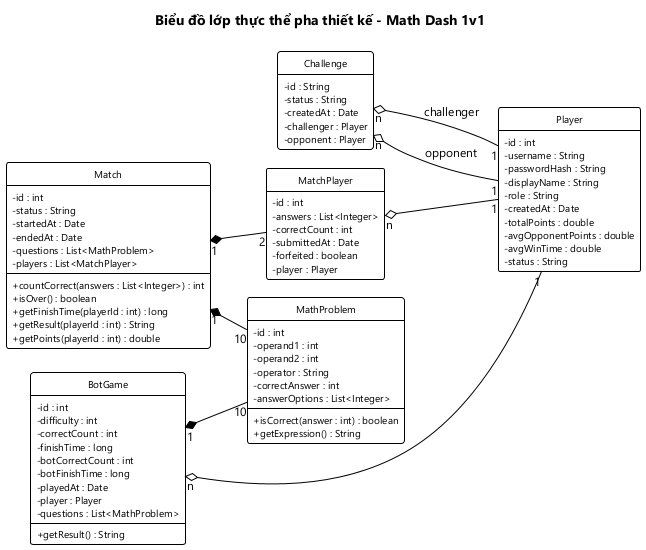
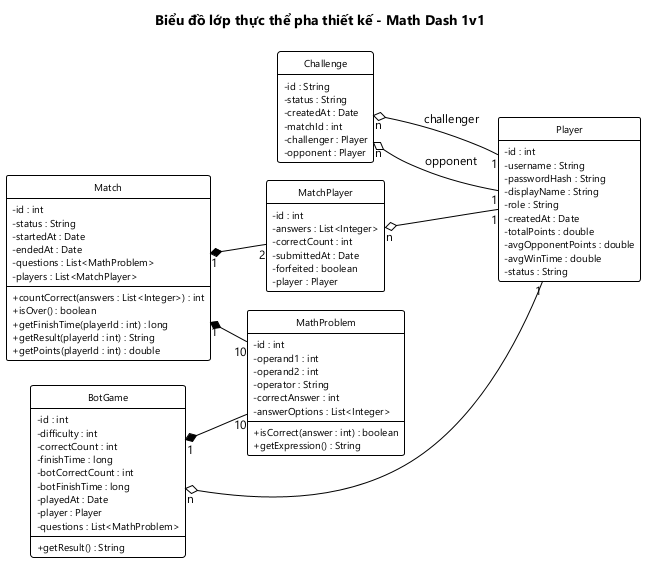
docs(M4-01,M4-03): đồng bộ tài liệu với code M2: Challenge.matchId, readChallengeStatus, goOffline, xử thua khi đối thủ mất kết nối

diff --git a/docs/hung/BaoCao_Hung.md b/docs/hung/BaoCao_Hung.md
@@ -557,9 +557,11 @@ Các thông báo ngắn ("MINH đang bận", "HOANG đã từ chối lời mời
 
 | Loại | Lớp | Mô tả |
 |---|---|---|
-| Boundary | MainActivity | Màn chính, cài đặt PlayerListCallback và ChallengeCallback; giữ người chơi đang đăng nhập (me).<br>- onCreate lấy me bằng SessionDAO.getPlayer, gọi PlayerApiDAO.getById trong Thread để có tổng điểm mới, rồi goOnline, watchOnlinePlayers, watchIncoming.<br>- onPlayersChanged hiện thông tin của mình và đưa những người còn lại vào PlayerAdapter.<br>- onPlayerClick: đối thủ bận thì hiện Toast; rỗi thì sendChallenge, watchChallenge và hiện hộp thoại chờ.<br>- onChallengeChanged: lời mời tới mình đang chờ thì showChallengeDialog; lời mình gửi được đồng ý thì openMatch; bị từ chối thì hiện Toast.<br>- acceptChallenge gọi MatchApiDAO.createMatch trong Thread, xong thì openMatch. Nút Từ chối gọi ChallengeFirebaseDAO.rejectChallenge |
+| Boundary | MainActivity | Màn chính, cài đặt PlayerListCallback và ChallengeCallback; giữ người chơi đang đăng nhập (me).<br>- onCreate lấy me bằng SessionDAO.getPlayer, gọi PlayerApiDAO.getById trong Thread để có tổng điểm mới, rồi goOnline, watchOnlinePlayers, watchIncoming.<br>- onPlayersChanged hiện thông tin của mình và đưa những người còn lại vào PlayerAdapter.<br>- onPlayerClick: đối thủ bận thì hiện Toast; rỗi thì sendChallenge, watchChallenge và hiện hộp thoại chờ có nút Hủy.<br>- onChallengeChanged: lời mời tới mình đang chờ thì showChallengeDialog; lời mình gửi được đồng ý thì openMatch(challenge.getMatchId()); bị từ chối thì hiện Toast.
+- Đăng xuất gọi PresenceFirebaseDAO.goOffline để rời danh sách online.<br>- acceptChallenge gọi MatchApiDAO.createMatch trong Thread, xong thì openMatch. Nút Từ chối gọi ChallengeFirebaseDAO.rejectChallenge |
 | Boundary | PlayerAdapter, PlayerViewHolder | PlayerAdapter kế thừa RecyclerView.Adapter, giữ danh sách Player. setPlayers thay danh sách và vẽ lại. onClick của một dòng gọi MainActivity.onPlayerClick. PlayerViewHolder giữ 3 TextView của một dòng |
-| Boundary | MatchActivity | Màn thi đấu, cài đặt MatchCallback; giữ me, mã trận (matchId), đồng hồ 60 giây (timer).<br>- onCreate gọi MatchFirebaseDAO.watchMatch. Lần đầu nhận trận, onSuccess gọi startMatch: đưa đề vào QuestionAdapter, bật đồng hồ.<br>- onTick vẽ thời gian; onFinish gọi submitAnswers.<br>- submitAnswers lấy bài làm bằng QuestionAdapter.getAnswers, gọi MatchApiDAO.submit trong Thread, rồi khóa danh sách câu.<br>- onSuccess các lần sau: đối thủ đã nộp thì showOpponentStatus; trận đã xong thì loadResult gọi MatchApiDAO.getById rồi showResult.<br>- showResult dùng Match.getResult, getFinishTime, getPoints trên bản trận server trả về.<br>- Nút Chơi tiếp / Dừng gọi sendChoice (MatchApiDAO.continueMatch). onNextMatch mở trận mới bằng openNextMatch; onStopped hiện Toast và về màn chính.<br>- Nút Thoát và onBackPressed hỏi xác nhận rồi gọi leaveMatch (MatchApiDAO.forfeit).<br>Activity không tự chấm bài, không tự phân thắng thua |
+| Boundary | MatchActivity | Màn thi đấu, cài đặt MatchCallback; giữ me, mã trận (matchId), đồng hồ 60 giây (timer).<br>- onCreate gọi MatchFirebaseDAO.watchMatch. Lần đầu nhận trận, onSuccess gọi startMatch: đưa đề vào QuestionAdapter, bật đồng hồ.<br>- onTick vẽ thời gian; onFinish gọi submitAnswers.<br>- submitAnswers lấy bài làm bằng QuestionAdapter.getAnswers, gọi MatchApiDAO.submit trong Thread, rồi khóa danh sách câu.<br>- onSuccess các lần sau: đối thủ đã nộp thì showOpponentStatus; trận đã xong thì loadResult gọi MatchApiDAO.getById rồi showResult.<br>- showResult dùng Match.getResult, getFinishTime, getPoints trên bản trận server trả về.<br>- Nút Chơi tiếp / Dừng gọi sendChoice (MatchApiDAO.continueMatch). onNextMatch mở trận mới bằng openNextMatch; onStopped hiện Toast và về màn chính.<br>- Nút Thoát và onBackPressed hỏi xác nhận rồi gọi leaveMatch (MatchApiDAO.forfeit).
+- Cài đặt PlayerListCallback: khi trận đang đấu mà đối thủ biến khỏi danh sách online (mất kết nối), onPlayersChanged gọi forfeit(opponentId) thay cho đối thủ.<br>Activity không tự chấm bài, không tự phân thắng thua |
 | Boundary | QuestionAdapter, QuestionViewHolder | QuestionAdapter giữ danh sách MathProblem và mảng phương án đã chọn (answers). onBindViewHolder hiện getExpression và 4 phương án; onCheckedChanged lưu phương án vào answers. getAnswers trả bài làm, câu chưa chọn là −1. setLocked khóa mọi RadioButton sau khi nộp. QuestionViewHolder giữ txtExpression, rgOptions, rbOptions |
 | Control | SessionDAO | getPlayer() đọc playerId, username, displayName từ SharedPreferences "session" và đóng gói thành Player |
 | Control | FirebaseDAO ← PresenceFirebaseDAO | FirebaseDAO giữ con (gốc Realtime Database). PresenceFirebaseDAO đọc / ghi node presence:<br>- goOnline ghi tên, tổng điểm, trạng thái free và đăng ký onDisconnect().removeValue().<br>- watchOnlinePlayers / stopWatching thêm / gỡ ValueEventListener.<br>- toPlayer đóng gói một node thành Player |
@@ -575,7 +577,7 @@ Các thông báo ngắn ("MINH đang bận", "HOANG đã từ chối lời mời
 | Loại | Lớp | Mô tả |
 |---|---|---|
 | Boundary | PlayerRestController | getById(id) nhận GET /api/players/{id}: PlayerDAO.findById rồi gán tổng điểm bằng PlayerDAO.getTotalPoints |
-| Boundary | MatchRestController | Trọng tài của mọi trận. Giữ waitingChoices: các trận đang có một người chọn chơi tiếp.<br>- create(challenge) nhận POST /api/matches:<br>  1. readPresence của 2 người; một người không online hoặc đang bận thì trả 409 "Không bắt đầu được trận đấu".<br>  2. startMatch: ProblemDAO.generateProblems(10), tạo Match, MatchDAO.insert, FirebaseAdminDAO.writeMatch, updateStatus busy cho 2 người.<br>  3. updateChallenge accepted kèm id trận.<br>- submit(id, matchPlayer):<br>  1. Ghi thời điểm nhận, findById, chấm bằng Match.countCorrect, updateSubmission, writeSubmitted.<br>  2. Nếu Match.isOver: updateEndedAt, tính lại tổng điểm 2 người, updatePoints, writeFinished.<br>- forfeit(id, playerId): updateForfeit, kết thúc trận như trên, writeStopped, trả 2 người về free.<br>- continueMatch(id, playerId, choice), synchronized:<br>  - Dừng: writeStopped, 2 người về free.<br>  - Chơi tiếp mà đối thủ chưa chọn: lưu vào waitingChoices, writeChoice.<br>  - Đối thủ đã chọn chơi tiếp: startMatch rồi writeNextMatch.<br>- getById(id): findById, gán tổng điểm cho 2 người chơi |
+| Boundary | MatchRestController | Trọng tài của mọi trận. Giữ waitingChoices: các trận đang có một người chọn chơi tiếp.<br>- create(challenge) nhận POST /api/matches:<br>  1. readChallengeStatus: lời mời đã bị hủy thì trả 409. readPresence của 2 người; một người không online hoặc đang bận thì trả 409 "Không bắt đầu được trận đấu".<br>  2. startMatch: ProblemDAO.generateProblems(10), tạo Match, MatchDAO.insert, FirebaseAdminDAO.writeMatch, updateStatus busy cho 2 người.<br>  3. updateChallenge accepted kèm id trận.<br>- submit(id, matchPlayer):<br>  1. Ghi thời điểm nhận, findById, chấm bằng Match.countCorrect, updateSubmission, writeSubmitted.<br>  2. Nếu Match.isOver: endMatch (updateEndedAt, tính lại tổng điểm 2 người, updatePoints), rồi writeFinished.<br>- forfeit(id, playerId): updateForfeit, endMatch, rồi mới writeStopped, writeFinished để máy đối thủ đọc được kết quả đã lưu; trả 2 người về free.<br>- continueMatch(id, playerId, choice), synchronized:<br>  - Dừng: writeStopped, 2 người về free.<br>  - Chơi tiếp mà đối thủ chưa chọn: lưu vào waitingChoices, writeChoice.<br>  - Đối thủ đã chọn chơi tiếp: startMatch rồi writeNextMatch.<br>- getById(id): findById, gán tổng điểm cho 2 người chơi |
 | Control | DAO ← PlayerDAO | DAO giữ conn : Connection (JDBC).<br>- findById đọc tblPlayer.<br>- getTotalPoints lấy các trận đã xong của người chơi rồi cộng Match.getPoints |
 | Control | DAO ← MatchDAO | - insert ghi 1 dòng tblMatch, 10 dòng tblMathProblem, 2 dòng tblMatchPlayer trong một transaction, gán id vừa sinh.<br>- findById đọc trận kèm đề và 2 người chơi.<br>- updateSubmission ghi correctCount, submittedAt.<br>- updateForfeit ghi forfeited.<br>- updateEndedAt ghi endedAt |
 | Control | ProblemDAO | Giữ random : Random. generateProblems gọi generateProblem 10 lần. Mỗi câu chọn toán tử +, −, ×, sinh 2 toán hạng, tính correctAnswer, sinh 3 phương án nhiễu gần đáp án rồi xáo trộn |
@@ -666,38 +668,39 @@ Kịch bản v3 chia 4 đoạn như kịch bản v1.
 8. Hàm onClick() của nút Đồng ý gọi hàm acceptChallenge() của MainActivity.
 9. Hàm acceptChallenge() mở một Thread và gọi hàm createMatch() của MatchApiDAO.
 10. MatchApiDAO gửi yêu cầu POST /api/matches kèm lời mời tới hàm create() của MatchRestController.
-11. Hàm create() gọi hàm readPresence() của FirebaseAdminDAO cho người mời và người được mời.
-12. Hàm readPresence() đọc node presence và gọi lớp Player để đóng gói người chơi kèm trạng thái.
-13. Lớp Player trả đối tượng Player cho hàm readPresence().
-14. Hàm readPresence() trả đối tượng Player cho hàm create(); cả 2 người đang online và rỗi.
-15. Hàm create() gọi hàm startMatch() của chính nó.
-16. Hàm startMatch() gọi hàm generateProblems() của ProblemDAO để sinh đề 10 câu.
-17. Với mỗi câu, hàm generateProblems() sinh phép tính ngẫu nhiên và gọi lớp MathProblem để đóng gói kèm 4 phương án.
-18. Lớp MathProblem trả đối tượng MathProblem cho hàm generateProblems().
-19. Hàm generateProblems() trả danh sách 10 câu hỏi cho hàm startMatch().
-20. Hàm startMatch() gọi lớp Match để tạo trận với đề vừa sinh, thời điểm bắt đầu và 2 người chơi.
-21. Lớp Match trả đối tượng Match cho hàm startMatch().
-22. Hàm startMatch() gọi hàm insert() của MatchDAO.
-23. Hàm insert() lưu trận, 10 câu hỏi và 2 người chơi trong trận vào CSDL trong một transaction, gán id vừa sinh cho trận.
-24. Hàm insert() trả kết quả cho hàm startMatch().
-25. Hàm startMatch() gọi hàm writeMatch() của FirebaseAdminDAO để gửi đề, không kèm đáp án, cho cả 2 máy.
-26. Hàm startMatch() gọi hàm updateStatus() của FirebaseAdminDAO để chuyển 2 người chơi sang trạng thái bận.
-27. Hàm create() gọi hàm updateChallenge() của FirebaseAdminDAO để đánh dấu lời mời đã được đồng ý, kèm mã trận.
-28. Hàm create() trả trận dạng JSON cho MatchApiDAO.
-29. Hàm toMatch() của MatchApiDAO gọi lớp Match để đóng gói dữ liệu JSON.
-30. Lớp Match trả đối tượng Match cho MatchApiDAO.
-31. MatchApiDAO trả đối tượng Match cho hàm acceptChallenge().
-32. Trong hàm runOnUiThread(), hàm acceptChallenge() gọi hàm openMatch() để mở MatchActivity với mã trận.
+11. Hàm create() gọi hàm readChallengeStatus() của FirebaseAdminDAO; lời mời vẫn đang chờ, người mời chưa hủy.
+12. Hàm create() gọi hàm readPresence() của FirebaseAdminDAO cho người mời và người được mời.
+13. Hàm readPresence() đọc node presence và gọi lớp Player để đóng gói người chơi kèm trạng thái.
+14. Lớp Player trả đối tượng Player cho hàm readPresence().
+15. Hàm readPresence() trả đối tượng Player cho hàm create(); cả 2 người đang online và rỗi.
+16. Hàm create() gọi hàm startMatch() của chính nó.
+17. Hàm startMatch() gọi hàm generateProblems() của ProblemDAO để sinh đề 10 câu.
+18. Với mỗi câu, hàm generateProblems() sinh phép tính ngẫu nhiên và gọi lớp MathProblem để đóng gói kèm 4 phương án.
+19. Lớp MathProblem trả đối tượng MathProblem cho hàm generateProblems().
+20. Hàm generateProblems() trả danh sách 10 câu hỏi cho hàm startMatch().
+21. Hàm startMatch() gọi lớp Match để tạo trận với đề vừa sinh, thời điểm bắt đầu và 2 người chơi.
+22. Lớp Match trả đối tượng Match cho hàm startMatch().
+23. Hàm startMatch() gọi hàm insert() của MatchDAO.
+24. Hàm insert() lưu trận, 10 câu hỏi và 2 người chơi trong trận vào CSDL trong một transaction, gán id vừa sinh cho trận.
+25. Hàm insert() trả kết quả cho hàm startMatch().
+26. Hàm startMatch() gọi hàm writeMatch() của FirebaseAdminDAO để gửi đề, không kèm đáp án, cho cả 2 máy.
+27. Hàm startMatch() gọi hàm updateStatus() của FirebaseAdminDAO để chuyển 2 người chơi sang trạng thái bận.
+28. Hàm create() gọi hàm updateChallenge() của FirebaseAdminDAO để đánh dấu lời mời đã được đồng ý, kèm mã trận.
+29. Hàm create() trả trận dạng JSON cho MatchApiDAO.
+30. Hàm toMatch() của MatchApiDAO gọi lớp Match để đóng gói dữ liệu JSON.
+31. Lớp Match trả đối tượng Match cho MatchApiDAO.
+32. MatchApiDAO trả đối tượng Match cho hàm acceptChallenge().
+33. Trong hàm runOnUiThread(), hàm acceptChallenge() gọi hàm openMatch() để mở MatchActivity với mã trận.
 
 ![Hình 8](tuan-tu-thiet-ke-uc03b.png)
 
 *Hình 8: Biểu đồ tuần tự chi tiết chức năng Chơi online, đoạn B: Nhận lời thách đấu.*
 
-- Biểu đồ có 32 thông điệp.
-- **Server sinh đề** (bước 16–19) và lưu đề vào MySQL cùng trận (bước 22–23), vì server cần đáp án để chấm bài sau này.
-- **Đề gửi qua Firebase không kèm đáp án** (bước 25): người chơi không đọc được đáp án trước khi nộp bài.
-- Bước 27 cập nhật lời mời, đây chính là tín hiệu để máy người mời mở MatchActivity ở bước 35 của đoạn A.
-- Hàm create() kiểm tra lại cả 2 người còn online và rỗi (bước 11–14), nên không thể có người ở trong 2 trận cùng lúc.
+- Biểu đồ có 33 thông điệp.
+- **Server sinh đề** (bước 17–20) và lưu đề vào MySQL cùng trận (bước 23–24), vì server cần đáp án để chấm bài sau này.
+- **Đề gửi qua Firebase không kèm đáp án** (bước 26): người chơi không đọc được đáp án trước khi nộp bài.
+- Bước 28 cập nhật lời mời, đây chính là tín hiệu để máy người mời mở MatchActivity ở bước 35 của đoạn A.
+- Hàm create() kiểm tra lời mời chưa bị hủy (bước 11) và cả 2 người còn online, rỗi (bước 12–15), nên không thể có người ở trong 2 trận cùng lúc.
 
 **Đoạn C: Thi đấu**
 
@@ -873,7 +876,7 @@ Màn Bảng xếp hạng là một danh sách cuộn, mỗi dòng là một item
 | Loại | Lớp | Mô tả |
 |---|---|---|
 | Boundary | PlayerRestController | getRanking() nhận GET /api/players/ranking, gọi PlayerDAO.getRanking và trả danh sách Player dạng JSON |
-| Control | DAO ← PlayerDAO | getRanking:<br>1. Đọc mọi tblPlayer có role = player.<br>2. Lấy các trận đã xong bằng MatchDAO.findFinished.<br>3. Cộng Match.getPoints vào tổng điểm từng người; ghi lại các đối thủ đã gặp; với trận Match.getResult là WIN thì cộng Match.getFinishTime.<br>4. Tính 2 giá trị trung bình rồi sắp xếp theo 3 tiêu chí |
+| Control | DAO ← PlayerDAO | getRanking đọc mọi tblPlayer có role = player, lấy các trận đã xong bằng MatchDAO.findFinished, rồi gọi rank. rank là hàm tĩnh thuần, có unit test:<br>1. Đọc người chơi.<br>2. Duyệt các trận.<br>3. Cộng Match.getPoints vào tổng điểm từng người; ghi lại các đối thủ đã gặp; với trận Match.getResult là WIN thì cộng Match.getFinishTime.<br>4. Tính 2 giá trị trung bình rồi sắp xếp theo 3 tiêu chí |
 | Control | DAO ← MatchDAO | findFinished truy vấn tblMatch có endedAt khác rỗng, JOIN tblMatchPlayer, tblPlayer, đóng gói mỗi trận thành 1 Match + 2 MatchPlayer + 2 Player. Không cần đề nên không đọc tblMathProblem |
 | Entity | Player, Match, MatchPlayer | Như ở Chơi online |
 

diff --git a/docs/hung/launch.md b/docs/hung/launch.md
@@ -557,9 +557,11 @@ Package "Client (Android)".
 
 | Loại | Lớp | Mô tả |
 |---|---|---|
-| Boundary | MainActivity | Màn chính, cài đặt PlayerListCallback và ChallengeCallback; giữ người chơi đang đăng nhập (me).<br>- onCreate lấy me bằng SessionDAO.getPlayer, gọi PlayerApiDAO.getById trong Thread để có tổng điểm mới, rồi goOnline, watchOnlinePlayers, watchIncoming.<br>- onPlayersChanged hiện thông tin của mình và đưa những người còn lại vào PlayerAdapter.<br>- onPlayerClick: đối thủ bận thì hiện Toast; rỗi thì sendChallenge, watchChallenge và hiện hộp thoại chờ.<br>- onChallengeChanged: lời mời tới mình đang chờ thì showChallengeDialog; lời mình gửi được đồng ý thì openMatch; bị từ chối thì hiện Toast.<br>- acceptChallenge gọi MatchApiDAO.createMatch trong Thread, xong thì openMatch. Nút Từ chối gọi ChallengeFirebaseDAO.rejectChallenge |
+| Boundary | MainActivity | Màn chính, cài đặt PlayerListCallback và ChallengeCallback; giữ người chơi đang đăng nhập (me).<br>- onCreate lấy me bằng SessionDAO.getPlayer, gọi PlayerApiDAO.getById trong Thread để có tổng điểm mới, rồi goOnline, watchOnlinePlayers, watchIncoming.<br>- onPlayersChanged hiện thông tin của mình và đưa những người còn lại vào PlayerAdapter.<br>- onPlayerClick: đối thủ bận thì hiện Toast; rỗi thì sendChallenge, watchChallenge và hiện hộp thoại chờ có nút Hủy.<br>- onChallengeChanged: lời mời tới mình đang chờ thì showChallengeDialog; lời mình gửi được đồng ý thì openMatch(challenge.getMatchId()); bị từ chối thì hiện Toast.
+- Đăng xuất gọi PresenceFirebaseDAO.goOffline để rời danh sách online.<br>- acceptChallenge gọi MatchApiDAO.createMatch trong Thread, xong thì openMatch. Nút Từ chối gọi ChallengeFirebaseDAO.rejectChallenge |
 | Boundary | PlayerAdapter, PlayerViewHolder | PlayerAdapter kế thừa RecyclerView.Adapter, giữ danh sách Player. setPlayers thay danh sách và vẽ lại. onClick của một dòng gọi MainActivity.onPlayerClick. PlayerViewHolder giữ 3 TextView của một dòng |
-| Boundary | MatchActivity | Màn thi đấu, cài đặt MatchCallback; giữ me, mã trận (matchId), đồng hồ 60 giây (timer).<br>- onCreate gọi MatchFirebaseDAO.watchMatch. Lần đầu nhận trận, onSuccess gọi startMatch: đưa đề vào QuestionAdapter, bật đồng hồ.<br>- onTick vẽ thời gian; onFinish gọi submitAnswers.<br>- submitAnswers lấy bài làm bằng QuestionAdapter.getAnswers, gọi MatchApiDAO.submit trong Thread, rồi khóa danh sách câu.<br>- onSuccess các lần sau: đối thủ đã nộp thì showOpponentStatus; trận đã xong thì loadResult gọi MatchApiDAO.getById rồi showResult.<br>- showResult dùng Match.getResult, getFinishTime, getPoints trên bản trận server trả về.<br>- Nút Chơi tiếp / Dừng gọi sendChoice (MatchApiDAO.continueMatch). onNextMatch mở trận mới bằng openNextMatch; onStopped hiện Toast và về màn chính.<br>- Nút Thoát và onBackPressed hỏi xác nhận rồi gọi leaveMatch (MatchApiDAO.forfeit).<br>Activity không tự chấm bài, không tự phân thắng thua |
+| Boundary | MatchActivity | Màn thi đấu, cài đặt MatchCallback; giữ me, mã trận (matchId), đồng hồ 60 giây (timer).<br>- onCreate gọi MatchFirebaseDAO.watchMatch. Lần đầu nhận trận, onSuccess gọi startMatch: đưa đề vào QuestionAdapter, bật đồng hồ.<br>- onTick vẽ thời gian; onFinish gọi submitAnswers.<br>- submitAnswers lấy bài làm bằng QuestionAdapter.getAnswers, gọi MatchApiDAO.submit trong Thread, rồi khóa danh sách câu.<br>- onSuccess các lần sau: đối thủ đã nộp thì showOpponentStatus; trận đã xong thì loadResult gọi MatchApiDAO.getById rồi showResult.<br>- showResult dùng Match.getResult, getFinishTime, getPoints trên bản trận server trả về.<br>- Nút Chơi tiếp / Dừng gọi sendChoice (MatchApiDAO.continueMatch). onNextMatch mở trận mới bằng openNextMatch; onStopped hiện Toast và về màn chính.<br>- Nút Thoát và onBackPressed hỏi xác nhận rồi gọi leaveMatch (MatchApiDAO.forfeit).
+- Cài đặt PlayerListCallback: khi trận đang đấu mà đối thủ biến khỏi danh sách online (mất kết nối), onPlayersChanged gọi forfeit(opponentId) thay cho đối thủ.<br>Activity không tự chấm bài, không tự phân thắng thua |
 | Boundary | QuestionAdapter, QuestionViewHolder | QuestionAdapter giữ danh sách MathProblem và mảng phương án đã chọn (answers). onBindViewHolder hiện getExpression và 4 phương án; onCheckedChanged lưu phương án vào answers. getAnswers trả bài làm, câu chưa chọn là −1. setLocked khóa mọi RadioButton sau khi nộp. QuestionViewHolder giữ txtExpression, rgOptions, rbOptions |
 | Control | SessionDAO | getPlayer() đọc playerId, username, displayName từ SharedPreferences "session" và đóng gói thành Player |
 | Control | FirebaseDAO ← PresenceFirebaseDAO | FirebaseDAO giữ con (gốc Realtime Database). PresenceFirebaseDAO đọc / ghi node presence:<br>- goOnline ghi tên, tổng điểm, trạng thái free và đăng ký onDisconnect().removeValue().<br>- watchOnlinePlayers / stopWatching thêm / gỡ ValueEventListener.<br>- toPlayer đóng gói một node thành Player |
@@ -575,7 +577,7 @@ Package "Server (Spring Boot)".
 | Loại | Lớp | Mô tả |
 |---|---|---|
 | Boundary | PlayerRestController | getById(id) nhận GET /api/players/{id}: PlayerDAO.findById rồi gán tổng điểm bằng PlayerDAO.getTotalPoints |
-| Boundary | MatchRestController | Trọng tài của mọi trận. Giữ waitingChoices: các trận đang có một người chọn chơi tiếp.<br>- create(challenge) nhận POST /api/matches:<br>  1. readPresence của 2 người; một người không online hoặc đang bận thì trả 409 "Không bắt đầu được trận đấu".<br>  2. startMatch: ProblemDAO.generateProblems(10), tạo Match, MatchDAO.insert, FirebaseAdminDAO.writeMatch, updateStatus busy cho 2 người.<br>  3. updateChallenge accepted kèm id trận.<br>- submit(id, matchPlayer):<br>  1. Ghi thời điểm nhận, findById, chấm bằng Match.countCorrect, updateSubmission, writeSubmitted.<br>  2. Nếu Match.isOver: updateEndedAt, tính lại tổng điểm 2 người, updatePoints, writeFinished.<br>- forfeit(id, playerId): updateForfeit, kết thúc trận như trên, writeStopped, trả 2 người về free.<br>- continueMatch(id, playerId, choice), synchronized:<br>  - Dừng: writeStopped, 2 người về free.<br>  - Chơi tiếp mà đối thủ chưa chọn: lưu vào waitingChoices, writeChoice.<br>  - Đối thủ đã chọn chơi tiếp: startMatch rồi writeNextMatch.<br>- getById(id): findById, gán tổng điểm cho 2 người chơi |
+| Boundary | MatchRestController | Trọng tài của mọi trận. Giữ waitingChoices: các trận đang có một người chọn chơi tiếp.<br>- create(challenge) nhận POST /api/matches:<br>  1. readChallengeStatus: lời mời đã bị hủy thì trả 409. readPresence của 2 người; một người không online hoặc đang bận thì trả 409 "Không bắt đầu được trận đấu".<br>  2. startMatch: ProblemDAO.generateProblems(10), tạo Match, MatchDAO.insert, FirebaseAdminDAO.writeMatch, updateStatus busy cho 2 người.<br>  3. updateChallenge accepted kèm id trận.<br>- submit(id, matchPlayer):<br>  1. Ghi thời điểm nhận, findById, chấm bằng Match.countCorrect, updateSubmission, writeSubmitted.<br>  2. Nếu Match.isOver: endMatch (updateEndedAt, tính lại tổng điểm 2 người, updatePoints), rồi writeFinished.<br>- forfeit(id, playerId): updateForfeit, endMatch, rồi mới writeStopped, writeFinished để máy đối thủ đọc được kết quả đã lưu; trả 2 người về free.<br>- continueMatch(id, playerId, choice), synchronized:<br>  - Dừng: writeStopped, 2 người về free.<br>  - Chơi tiếp mà đối thủ chưa chọn: lưu vào waitingChoices, writeChoice.<br>  - Đối thủ đã chọn chơi tiếp: startMatch rồi writeNextMatch.<br>- getById(id): findById, gán tổng điểm cho 2 người chơi |
 | Control | DAO ← PlayerDAO | DAO giữ conn : Connection (JDBC).<br>- findById đọc tblPlayer.<br>- getTotalPoints lấy các trận đã xong của người chơi rồi cộng Match.getPoints |
 | Control | DAO ← MatchDAO | - insert ghi 1 dòng tblMatch, 10 dòng tblMathProblem, 2 dòng tblMatchPlayer trong một transaction, gán id vừa sinh.<br>- findById đọc trận kèm đề và 2 người chơi.<br>- updateSubmission ghi correctCount, submittedAt.<br>- updateForfeit ghi forfeited.<br>- updateEndedAt ghi endedAt |
 | Control | ProblemDAO | Giữ random : Random. generateProblems gọi generateProblem 10 lần. Mỗi câu chọn toán tử +, −, ×, sinh 2 toán hạng, tính correctAnswer, sinh 3 phương án nhiễu gần đáp án rồi xáo trộn |
@@ -666,38 +668,39 @@ Hình 7: Biểu đồ tuần tự chi tiết chức năng Chơi online, đoạn 
 8. Hàm onClick() của nút Đồng ý gọi hàm acceptChallenge() của MainActivity.
 9. Hàm acceptChallenge() mở một Thread và gọi hàm createMatch() của MatchApiDAO.
 10. MatchApiDAO gửi yêu cầu POST /api/matches kèm lời mời tới hàm create() của MatchRestController.
-11. Hàm create() gọi hàm readPresence() của FirebaseAdminDAO cho người mời và người được mời.
-12. Hàm readPresence() đọc node presence và gọi lớp Player để đóng gói người chơi kèm trạng thái.
-13. Lớp Player trả đối tượng Player cho hàm readPresence().
-14. Hàm readPresence() trả đối tượng Player cho hàm create(); cả 2 người đang online và rỗi.
-15. Hàm create() gọi hàm startMatch() của chính nó.
-16. Hàm startMatch() gọi hàm generateProblems() của ProblemDAO để sinh đề 10 câu.
-17. Với mỗi câu, hàm generateProblems() sinh phép tính ngẫu nhiên và gọi lớp MathProblem để đóng gói kèm 4 phương án.
-18. Lớp MathProblem trả đối tượng MathProblem cho hàm generateProblems().
-19. Hàm generateProblems() trả danh sách 10 câu hỏi cho hàm startMatch().
-20. Hàm startMatch() gọi lớp Match để tạo trận với đề vừa sinh, thời điểm bắt đầu và 2 người chơi.
-21. Lớp Match trả đối tượng Match cho hàm startMatch().
-22. Hàm startMatch() gọi hàm insert() của MatchDAO.
-23. Hàm insert() lưu trận, 10 câu hỏi và 2 người chơi trong trận vào CSDL trong một transaction, gán id vừa sinh cho trận.
-24. Hàm insert() trả kết quả cho hàm startMatch().
-25. Hàm startMatch() gọi hàm writeMatch() của FirebaseAdminDAO để gửi đề, không kèm đáp án, cho cả 2 máy.
-26. Hàm startMatch() gọi hàm updateStatus() của FirebaseAdminDAO để chuyển 2 người chơi sang trạng thái bận.
-27. Hàm create() gọi hàm updateChallenge() của FirebaseAdminDAO để đánh dấu lời mời đã được đồng ý, kèm mã trận.
-28. Hàm create() trả trận dạng JSON cho MatchApiDAO.
-29. Hàm toMatch() của MatchApiDAO gọi lớp Match để đóng gói dữ liệu JSON.
-30. Lớp Match trả đối tượng Match cho MatchApiDAO.
-31. MatchApiDAO trả đối tượng Match cho hàm acceptChallenge().
-32. Trong hàm runOnUiThread(), hàm acceptChallenge() gọi hàm openMatch() để mở MatchActivity với mã trận.
+11. Hàm create() gọi hàm readChallengeStatus() của FirebaseAdminDAO; lời mời vẫn đang chờ, người mời chưa hủy.
+12. Hàm create() gọi hàm readPresence() của FirebaseAdminDAO cho người mời và người được mời.
+13. Hàm readPresence() đọc node presence và gọi lớp Player để đóng gói người chơi kèm trạng thái.
+14. Lớp Player trả đối tượng Player cho hàm readPresence().
+15. Hàm readPresence() trả đối tượng Player cho hàm create(); cả 2 người đang online và rỗi.
+16. Hàm create() gọi hàm startMatch() của chính nó.
+17. Hàm startMatch() gọi hàm generateProblems() của ProblemDAO để sinh đề 10 câu.
+18. Với mỗi câu, hàm generateProblems() sinh phép tính ngẫu nhiên và gọi lớp MathProblem để đóng gói kèm 4 phương án.
+19. Lớp MathProblem trả đối tượng MathProblem cho hàm generateProblems().
+20. Hàm generateProblems() trả danh sách 10 câu hỏi cho hàm startMatch().
+21. Hàm startMatch() gọi lớp Match để tạo trận với đề vừa sinh, thời điểm bắt đầu và 2 người chơi.
+22. Lớp Match trả đối tượng Match cho hàm startMatch().
+23. Hàm startMatch() gọi hàm insert() của MatchDAO.
+24. Hàm insert() lưu trận, 10 câu hỏi và 2 người chơi trong trận vào CSDL trong một transaction, gán id vừa sinh cho trận.
+25. Hàm insert() trả kết quả cho hàm startMatch().
+26. Hàm startMatch() gọi hàm writeMatch() của FirebaseAdminDAO để gửi đề, không kèm đáp án, cho cả 2 máy.
+27. Hàm startMatch() gọi hàm updateStatus() của FirebaseAdminDAO để chuyển 2 người chơi sang trạng thái bận.
+28. Hàm create() gọi hàm updateChallenge() của FirebaseAdminDAO để đánh dấu lời mời đã được đồng ý, kèm mã trận.
+29. Hàm create() trả trận dạng JSON cho MatchApiDAO.
+30. Hàm toMatch() của MatchApiDAO gọi lớp Match để đóng gói dữ liệu JSON.
+31. Lớp Match trả đối tượng Match cho MatchApiDAO.
+32. MatchApiDAO trả đối tượng Match cho hàm acceptChallenge().
+33. Trong hàm runOnUiThread(), hàm acceptChallenge() gọi hàm openMatch() để mở MatchActivity với mã trận.
 
 @tuan-tu-thiet-ke-uc03b.png
 
 Hình 8: Biểu đồ tuần tự chi tiết chức năng Chơi online, đoạn B: Nhận lời thách đấu.
 
-- Biểu đồ có 32 thông điệp.
-- Server sinh đề (bước 16–19) và lưu đề vào MySQL cùng trận (bước 22–23), vì server cần đáp án để chấm bài sau này.
-- Đề gửi qua Firebase không kèm đáp án (bước 25): người chơi không đọc được đáp án trước khi nộp bài.
-- Bước 27 cập nhật lời mời, đây chính là tín hiệu để máy người mời mở MatchActivity ở bước 35 của đoạn A.
-- Hàm create() kiểm tra lại cả 2 người còn online và rỗi (bước 11–14), nên không thể có người ở trong 2 trận cùng lúc.
+- Biểu đồ có 33 thông điệp.
+- Server sinh đề (bước 17–20) và lưu đề vào MySQL cùng trận (bước 23–24), vì server cần đáp án để chấm bài sau này.
+- Đề gửi qua Firebase không kèm đáp án (bước 26): người chơi không đọc được đáp án trước khi nộp bài.
+- Bước 28 cập nhật lời mời, đây chính là tín hiệu để máy người mời mở MatchActivity ở bước 35 của đoạn A.
+- Hàm create() kiểm tra lời mời chưa bị hủy (bước 11) và cả 2 người còn online, rỗi (bước 12–15), nên không thể có người ở trong 2 trận cùng lúc.
 
 Đoạn C: Thi đấu
 
@@ -873,7 +876,7 @@ Package "Server (Spring Boot)".
 | Loại | Lớp | Mô tả |
 |---|---|---|
 | Boundary | PlayerRestController | getRanking() nhận GET /api/players/ranking, gọi PlayerDAO.getRanking và trả danh sách Player dạng JSON |
-| Control | DAO ← PlayerDAO | getRanking:<br>1. Đọc mọi tblPlayer có role = player.<br>2. Lấy các trận đã xong bằng MatchDAO.findFinished.<br>3. Cộng Match.getPoints vào tổng điểm từng người; ghi lại các đối thủ đã gặp; với trận Match.getResult là WIN thì cộng Match.getFinishTime.<br>4. Tính 2 giá trị trung bình rồi sắp xếp theo 3 tiêu chí |
+| Control | DAO ← PlayerDAO | getRanking đọc mọi tblPlayer có role = player, lấy các trận đã xong bằng MatchDAO.findFinished, rồi gọi rank. rank là hàm tĩnh thuần, có unit test:<br>1. Đọc người chơi.<br>2. Duyệt các trận.<br>3. Cộng Match.getPoints vào tổng điểm từng người; ghi lại các đối thủ đã gặp; với trận Match.getResult là WIN thì cộng Match.getFinishTime.<br>4. Tính 2 giá trị trung bình rồi sắp xếp theo 3 tiêu chí |
 | Control | DAO ← MatchDAO | findFinished truy vấn tblMatch có endedAt khác rỗng, JOIN tblMatchPlayer, tblPlayer, đóng gói mỗi trận thành 1 Match + 2 MatchPlayer + 2 Player. Không cần đề nên không đọc tblMathProblem |
 | Entity | Player, Match, MatchPlayer | Như ở Chơi online |
 

diff --git a/docs/hung/4-lop-thiet-ke.md b/docs/hung/4-lop-thiet-ke.md
@@ -110,9 +110,11 @@ Các thông báo ngắn ("MINH đang bận", "HOANG đã từ chối lời mời
 
 | Loại | Lớp | Mô tả |
 |---|---|---|
-| Boundary | MainActivity | Màn chính, cài đặt PlayerListCallback và ChallengeCallback; giữ người chơi đang đăng nhập (me).<br>- onCreate lấy me bằng SessionDAO.getPlayer, gọi PlayerApiDAO.getById trong Thread để có tổng điểm mới, rồi goOnline, watchOnlinePlayers, watchIncoming.<br>- onPlayersChanged hiện thông tin của mình và đưa những người còn lại vào PlayerAdapter.<br>- onPlayerClick: đối thủ bận thì hiện Toast; rỗi thì sendChallenge, watchChallenge và hiện hộp thoại chờ.<br>- onChallengeChanged: lời mời tới mình đang chờ thì showChallengeDialog; lời mình gửi được đồng ý thì openMatch; bị từ chối thì hiện Toast.<br>- acceptChallenge gọi MatchApiDAO.createMatch trong Thread, xong thì openMatch. Nút Từ chối gọi ChallengeFirebaseDAO.rejectChallenge |
+| Boundary | MainActivity | Màn chính, cài đặt PlayerListCallback và ChallengeCallback; giữ người chơi đang đăng nhập (me).<br>- onCreate lấy me bằng SessionDAO.getPlayer, gọi PlayerApiDAO.getById trong Thread để có tổng điểm mới, rồi goOnline, watchOnlinePlayers, watchIncoming.<br>- onPlayersChanged hiện thông tin của mình và đưa những người còn lại vào PlayerAdapter.<br>- onPlayerClick: đối thủ bận thì hiện Toast; rỗi thì sendChallenge, watchChallenge và hiện hộp thoại chờ có nút Hủy.<br>- onChallengeChanged: lời mời tới mình đang chờ thì showChallengeDialog; lời mình gửi được đồng ý thì openMatch(challenge.getMatchId()); bị từ chối thì hiện Toast.
+- Đăng xuất gọi PresenceFirebaseDAO.goOffline để rời danh sách online.<br>- acceptChallenge gọi MatchApiDAO.createMatch trong Thread, xong thì openMatch. Nút Từ chối gọi ChallengeFirebaseDAO.rejectChallenge |
 | Boundary | PlayerAdapter, PlayerViewHolder | PlayerAdapter kế thừa RecyclerView.Adapter, giữ danh sách Player. setPlayers thay danh sách và vẽ lại. onClick của một dòng gọi MainActivity.onPlayerClick. PlayerViewHolder giữ 3 TextView của một dòng |
-| Boundary | MatchActivity | Màn thi đấu, cài đặt MatchCallback; giữ me, mã trận (matchId), đồng hồ 60 giây (timer).<br>- onCreate gọi MatchFirebaseDAO.watchMatch. Lần đầu nhận trận, onSuccess gọi startMatch: đưa đề vào QuestionAdapter, bật đồng hồ.<br>- onTick vẽ thời gian; onFinish gọi submitAnswers.<br>- submitAnswers lấy bài làm bằng QuestionAdapter.getAnswers, gọi MatchApiDAO.submit trong Thread, rồi khóa danh sách câu.<br>- onSuccess các lần sau: đối thủ đã nộp thì showOpponentStatus; trận đã xong thì loadResult gọi MatchApiDAO.getById rồi showResult.<br>- showResult dùng Match.getResult, getFinishTime, getPoints trên bản trận server trả về.<br>- Nút Chơi tiếp / Dừng gọi sendChoice (MatchApiDAO.continueMatch). onNextMatch mở trận mới bằng openNextMatch; onStopped hiện Toast và về màn chính.<br>- Nút Thoát và onBackPressed hỏi xác nhận rồi gọi leaveMatch (MatchApiDAO.forfeit).<br>Activity không tự chấm bài, không tự phân thắng thua |
+| Boundary | MatchActivity | Màn thi đấu, cài đặt MatchCallback; giữ me, mã trận (matchId), đồng hồ 60 giây (timer).<br>- onCreate gọi MatchFirebaseDAO.watchMatch. Lần đầu nhận trận, onSuccess gọi startMatch: đưa đề vào QuestionAdapter, bật đồng hồ.<br>- onTick vẽ thời gian; onFinish gọi submitAnswers.<br>- submitAnswers lấy bài làm bằng QuestionAdapter.getAnswers, gọi MatchApiDAO.submit trong Thread, rồi khóa danh sách câu.<br>- onSuccess các lần sau: đối thủ đã nộp thì showOpponentStatus; trận đã xong thì loadResult gọi MatchApiDAO.getById rồi showResult.<br>- showResult dùng Match.getResult, getFinishTime, getPoints trên bản trận server trả về.<br>- Nút Chơi tiếp / Dừng gọi sendChoice (MatchApiDAO.continueMatch). onNextMatch mở trận mới bằng openNextMatch; onStopped hiện Toast và về màn chính.<br>- Nút Thoát và onBackPressed hỏi xác nhận rồi gọi leaveMatch (MatchApiDAO.forfeit).
+- Cài đặt PlayerListCallback: khi trận đang đấu mà đối thủ biến khỏi danh sách online (mất kết nối), onPlayersChanged gọi forfeit(opponentId) thay cho đối thủ.<br>Activity không tự chấm bài, không tự phân thắng thua |
 | Boundary | QuestionAdapter, QuestionViewHolder | QuestionAdapter giữ danh sách MathProblem và mảng phương án đã chọn (answers). onBindViewHolder hiện getExpression và 4 phương án; onCheckedChanged lưu phương án vào answers. getAnswers trả bài làm, câu chưa chọn là −1. setLocked khóa mọi RadioButton sau khi nộp. QuestionViewHolder giữ txtExpression, rgOptions, rbOptions |
 | Control | SessionDAO | getPlayer() đọc playerId, username, displayName từ SharedPreferences "session" và đóng gói thành Player |
 | Control | FirebaseDAO ← PresenceFirebaseDAO | FirebaseDAO giữ con (gốc Realtime Database). PresenceFirebaseDAO đọc / ghi node presence:<br>- goOnline ghi tên, tổng điểm, trạng thái free và đăng ký onDisconnect().removeValue().<br>- watchOnlinePlayers / stopWatching thêm / gỡ ValueEventListener.<br>- toPlayer đóng gói một node thành Player |
@@ -128,7 +130,7 @@ Các thông báo ngắn ("MINH đang bận", "HOANG đã từ chối lời mời
 | Loại | Lớp | Mô tả |
 |---|---|---|
 | Boundary | PlayerRestController | getById(id) nhận GET /api/players/{id}: PlayerDAO.findById rồi gán tổng điểm bằng PlayerDAO.getTotalPoints |
-| Boundary | MatchRestController | Trọng tài của mọi trận. Giữ waitingChoices: các trận đang có một người chọn chơi tiếp.<br>- create(challenge) nhận POST /api/matches:<br>  1. readPresence của 2 người; một người không online hoặc đang bận thì trả 409 "Không bắt đầu được trận đấu".<br>  2. startMatch: ProblemDAO.generateProblems(10), tạo Match, MatchDAO.insert, FirebaseAdminDAO.writeMatch, updateStatus busy cho 2 người.<br>  3. updateChallenge accepted kèm id trận.<br>- submit(id, matchPlayer):<br>  1. Ghi thời điểm nhận, findById, chấm bằng Match.countCorrect, updateSubmission, writeSubmitted.<br>  2. Nếu Match.isOver: updateEndedAt, tính lại tổng điểm 2 người, updatePoints, writeFinished.<br>- forfeit(id, playerId): updateForfeit, kết thúc trận như trên, writeStopped, trả 2 người về free.<br>- continueMatch(id, playerId, choice), synchronized:<br>  - Dừng: writeStopped, 2 người về free.<br>  - Chơi tiếp mà đối thủ chưa chọn: lưu vào waitingChoices, writeChoice.<br>  - Đối thủ đã chọn chơi tiếp: startMatch rồi writeNextMatch.<br>- getById(id): findById, gán tổng điểm cho 2 người chơi |
+| Boundary | MatchRestController | Trọng tài của mọi trận. Giữ waitingChoices: các trận đang có một người chọn chơi tiếp.<br>- create(challenge) nhận POST /api/matches:<br>  1. readChallengeStatus: lời mời đã bị hủy thì trả 409. readPresence của 2 người; một người không online hoặc đang bận thì trả 409 "Không bắt đầu được trận đấu".<br>  2. startMatch: ProblemDAO.generateProblems(10), tạo Match, MatchDAO.insert, FirebaseAdminDAO.writeMatch, updateStatus busy cho 2 người.<br>  3. updateChallenge accepted kèm id trận.<br>- submit(id, matchPlayer):<br>  1. Ghi thời điểm nhận, findById, chấm bằng Match.countCorrect, updateSubmission, writeSubmitted.<br>  2. Nếu Match.isOver: endMatch (updateEndedAt, tính lại tổng điểm 2 người, updatePoints), rồi writeFinished.<br>- forfeit(id, playerId): updateForfeit, endMatch, rồi mới writeStopped, writeFinished để máy đối thủ đọc được kết quả đã lưu; trả 2 người về free.<br>- continueMatch(id, playerId, choice), synchronized:<br>  - Dừng: writeStopped, 2 người về free.<br>  - Chơi tiếp mà đối thủ chưa chọn: lưu vào waitingChoices, writeChoice.<br>  - Đối thủ đã chọn chơi tiếp: startMatch rồi writeNextMatch.<br>- getById(id): findById, gán tổng điểm cho 2 người chơi |
 | Control | DAO ← PlayerDAO | DAO giữ conn : Connection (JDBC).<br>- findById đọc tblPlayer.<br>- getTotalPoints lấy các trận đã xong của người chơi rồi cộng Match.getPoints |
 | Control | DAO ← MatchDAO | - insert ghi 1 dòng tblMatch, 10 dòng tblMathProblem, 2 dòng tblMatchPlayer trong một transaction, gán id vừa sinh.<br>- findById đọc trận kèm đề và 2 người chơi.<br>- updateSubmission ghi correctCount, submittedAt.<br>- updateForfeit ghi forfeited.<br>- updateEndedAt ghi endedAt |
 | Control | ProblemDAO | Giữ random : Random. generateProblems gọi generateProblem 10 lần. Mỗi câu chọn toán tử +, −, ×, sinh 2 toán hạng, tính correctAnswer, sinh 3 phương án nhiễu gần đáp án rồi xáo trộn |
@@ -199,7 +201,7 @@ Màn Bảng xếp hạng là một danh sách cuộn, mỗi dòng là một item
 | Loại | Lớp | Mô tả |
 |---|---|---|
 | Boundary | PlayerRestController | getRanking() nhận GET /api/players/ranking, gọi PlayerDAO.getRanking và trả danh sách Player dạng JSON |
-| Control | DAO ← PlayerDAO | getRanking:<br>1. Đọc mọi tblPlayer có role = player.<br>2. Lấy các trận đã xong bằng MatchDAO.findFinished.<br>3. Cộng Match.getPoints vào tổng điểm từng người; ghi lại các đối thủ đã gặp; với trận Match.getResult là WIN thì cộng Match.getFinishTime.<br>4. Tính 2 giá trị trung bình rồi sắp xếp theo 3 tiêu chí |
+| Control | DAO ← PlayerDAO | getRanking đọc mọi tblPlayer có role = player, lấy các trận đã xong bằng MatchDAO.findFinished, rồi gọi rank. rank là hàm tĩnh thuần, có unit test:<br>1. Đọc người chơi.<br>2. Duyệt các trận.<br>3. Cộng Match.getPoints vào tổng điểm từng người; ghi lại các đối thủ đã gặp; với trận Match.getResult là WIN thì cộng Match.getFinishTime.<br>4. Tính 2 giá trị trung bình rồi sắp xếp theo 3 tiêu chí |
 | Control | DAO ← MatchDAO | findFinished truy vấn tblMatch có endedAt khác rỗng, JOIN tblMatchPlayer, tblPlayer, đóng gói mỗi trận thành 1 Match + 2 MatchPlayer + 2 Player. Không cần đề nên không đọc tblMathProblem |
 | Entity | Player, Match, MatchPlayer | Như ở Chơi online |
 

diff --git a/docs/hung/5-kich-ban-v3.md b/docs/hung/5-kich-ban-v3.md
@@ -70,38 +70,39 @@
 8. Hàm onClick() của nút Đồng ý gọi hàm acceptChallenge() của MainActivity.
 9. Hàm acceptChallenge() mở một Thread và gọi hàm createMatch() của MatchApiDAO.
 10. MatchApiDAO gửi yêu cầu POST /api/matches kèm lời mời tới hàm create() của MatchRestController.
-11. Hàm create() gọi hàm readPresence() của FirebaseAdminDAO cho người mời và người được mời.
-12. Hàm readPresence() đọc node presence và gọi lớp Player để đóng gói người chơi kèm trạng thái.
-13. Lớp Player trả đối tượng Player cho hàm readPresence().
-14. Hàm readPresence() trả đối tượng Player cho hàm create(); cả 2 người đang online và rỗi.
-15. Hàm create() gọi hàm startMatch() của chính nó.
-16. Hàm startMatch() gọi hàm generateProblems() của ProblemDAO để sinh đề 10 câu.
-17. Với mỗi câu, hàm generateProblems() sinh phép tính ngẫu nhiên và gọi lớp MathProblem để đóng gói kèm 4 phương án.
-18. Lớp MathProblem trả đối tượng MathProblem cho hàm generateProblems().
-19. Hàm generateProblems() trả danh sách 10 câu hỏi cho hàm startMatch().
-20. Hàm startMatch() gọi lớp Match để tạo trận với đề vừa sinh, thời điểm bắt đầu và 2 người chơi.
-21. Lớp Match trả đối tượng Match cho hàm startMatch().
-22. Hàm startMatch() gọi hàm insert() của MatchDAO.
-23. Hàm insert() lưu trận, 10 câu hỏi và 2 người chơi trong trận vào CSDL trong một transaction, gán id vừa sinh cho trận.
-24. Hàm insert() trả kết quả cho hàm startMatch().
-25. Hàm startMatch() gọi hàm writeMatch() của FirebaseAdminDAO để gửi đề, không kèm đáp án, cho cả 2 máy.
-26. Hàm startMatch() gọi hàm updateStatus() của FirebaseAdminDAO để chuyển 2 người chơi sang trạng thái bận.
-27. Hàm create() gọi hàm updateChallenge() của FirebaseAdminDAO để đánh dấu lời mời đã được đồng ý, kèm mã trận.
-28. Hàm create() trả trận dạng JSON cho MatchApiDAO.
-29. Hàm toMatch() của MatchApiDAO gọi lớp Match để đóng gói dữ liệu JSON.
-30. Lớp Match trả đối tượng Match cho MatchApiDAO.
-31. MatchApiDAO trả đối tượng Match cho hàm acceptChallenge().
-32. Trong hàm runOnUiThread(), hàm acceptChallenge() gọi hàm openMatch() để mở MatchActivity với mã trận.
+11. Hàm create() gọi hàm readChallengeStatus() của FirebaseAdminDAO; lời mời vẫn đang chờ, người mời chưa hủy.
+12. Hàm create() gọi hàm readPresence() của FirebaseAdminDAO cho người mời và người được mời.
+13. Hàm readPresence() đọc node presence và gọi lớp Player để đóng gói người chơi kèm trạng thái.
+14. Lớp Player trả đối tượng Player cho hàm readPresence().
+15. Hàm readPresence() trả đối tượng Player cho hàm create(); cả 2 người đang online và rỗi.
+16. Hàm create() gọi hàm startMatch() của chính nó.
+17. Hàm startMatch() gọi hàm generateProblems() của ProblemDAO để sinh đề 10 câu.
+18. Với mỗi câu, hàm generateProblems() sinh phép tính ngẫu nhiên và gọi lớp MathProblem để đóng gói kèm 4 phương án.
+19. Lớp MathProblem trả đối tượng MathProblem cho hàm generateProblems().
+20. Hàm generateProblems() trả danh sách 10 câu hỏi cho hàm startMatch().
+21. Hàm startMatch() gọi lớp Match để tạo trận với đề vừa sinh, thời điểm bắt đầu và 2 người chơi.
+22. Lớp Match trả đối tượng Match cho hàm startMatch().
+23. Hàm startMatch() gọi hàm insert() của MatchDAO.
+24. Hàm insert() lưu trận, 10 câu hỏi và 2 người chơi trong trận vào CSDL trong một transaction, gán id vừa sinh cho trận.
+25. Hàm insert() trả kết quả cho hàm startMatch().
+26. Hàm startMatch() gọi hàm writeMatch() của FirebaseAdminDAO để gửi đề, không kèm đáp án, cho cả 2 máy.
+27. Hàm startMatch() gọi hàm updateStatus() của FirebaseAdminDAO để chuyển 2 người chơi sang trạng thái bận.
+28. Hàm create() gọi hàm updateChallenge() của FirebaseAdminDAO để đánh dấu lời mời đã được đồng ý, kèm mã trận.
+29. Hàm create() trả trận dạng JSON cho MatchApiDAO.
+30. Hàm toMatch() của MatchApiDAO gọi lớp Match để đóng gói dữ liệu JSON.
+31. Lớp Match trả đối tượng Match cho MatchApiDAO.
+32. MatchApiDAO trả đối tượng Match cho hàm acceptChallenge().
+33. Trong hàm runOnUiThread(), hàm acceptChallenge() gọi hàm openMatch() để mở MatchActivity với mã trận.
 
 ![Hình 18: Tuần tự thiết kế Chơi online – Nhận lời thách đấu](tuan-tu-thiet-ke-uc03b.png)
 
 *Hình 18: Biểu đồ tuần tự chi tiết chức năng Chơi online, đoạn B: Nhận lời thách đấu.*
 
-- Biểu đồ có 32 thông điệp.
-- **Server sinh đề** (bước 16–19) và lưu đề vào MySQL cùng trận (bước 22–23), vì server cần đáp án để chấm bài sau này.
-- **Đề gửi qua Firebase không kèm đáp án** (bước 25): người chơi không đọc được đáp án trước khi nộp bài.
-- Bước 27 cập nhật lời mời, đây chính là tín hiệu để máy người mời mở MatchActivity ở bước 35 của đoạn A.
-- Hàm create() kiểm tra lại cả 2 người còn online và rỗi (bước 11–14), nên không thể có người ở trong 2 trận cùng lúc.
+- Biểu đồ có 33 thông điệp.
+- **Server sinh đề** (bước 17–20) và lưu đề vào MySQL cùng trận (bước 23–24), vì server cần đáp án để chấm bài sau này.
+- **Đề gửi qua Firebase không kèm đáp án** (bước 26): người chơi không đọc được đáp án trước khi nộp bài.
+- Bước 28 cập nhật lời mời, đây chính là tín hiệu để máy người mời mở MatchActivity ở bước 35 của đoạn A.
+- Hàm create() kiểm tra lời mời chưa bị hủy (bước 11) và cả 2 người còn online, rỗi (bước 12–15), nên không thể có người ở trong 2 trận cùng lúc.
 
 ### 1.3. Đoạn C: Thi đấu
 

diff --git a/docs/chung/02-lop-thuc-the.md b/docs/chung/02-lop-thuc-the.md
@@ -141,6 +141,8 @@ Kiểu dữ liệu được chọn như sau:
 - Tổng điểm → double, vì có điểm hòa 0,5.
 - Độ khó dùng int: 1 = Dễ, 2 = Trung bình, 3 = Khó.
 
+Bổ sung 1 thuộc tính phục vụ thiết kế cho Challenge: matchId : int, mã trận server tạo khi lời mời được đồng ý. Máy người mời đọc nó để mở đúng trận.
+
 Đổi tên 1 thuộc tính so với pha phân tích: password của Player thành **passwordHash**, vì hệ thống chỉ lưu mật khẩu đã băm (BCrypt), không lưu mật khẩu gốc.
 
 Thuộc tính kiểu boolean đặt tên theo trạng thái, không có tiền tố is (forfeited); getter tương ứng là isForfeited() theo quy ước JavaBean. Nếu đặt tên trường là isForfeited thì getter thành isIsForfeited(), và thư viện chuyển JSON (Jackson ở server, Firebase SDK ở app) sẽ đọc sai tên trường.
@@ -149,7 +151,7 @@ Thuộc tính kiểu boolean đặt tên theo trạng thái, không có tiền t
 |---|---|
 | Player | id: int, username: String, passwordHash: String, displayName: String, role: String, createdAt: Date, totalPoints: double, avgOpponentPoints: double, avgWinTime: double, status: String |
 | MathProblem | id: int, operand1: int, operand2: int, operator: String, correctAnswer: int, answerOptions: List&lt;Integer&gt; |
-| Challenge | id: String, status: String, createdAt: Date |
+| Challenge | id: String, status: String, createdAt: Date, matchId: int |
 | Match | id: int, status: String, startedAt: Date, endedAt: Date |
 | MatchPlayer | id: int, answers: List&lt;Integer&gt;, correctCount: int, submittedAt: Date, forfeited: boolean |
 | BotGame | id: int, difficulty: int, correctCount: int, finishTime: long, botCorrectCount: int, botFinishTime: long, playedAt: Date |
@@ -242,6 +244,7 @@ Mã nguồn PlantUML: [lop-thuc-the-thiet-ke.puml](lop-thuc-the-thiet-ke.puml).
 | Challenge | status | Trạng thái lời mời | pending (đang chờ), accepted (đã đồng ý), rejected (đã từ chối) |
 | Challenge | createdAt | Thời điểm gửi lời mời | |
 | Challenge | challenger, opponent | Người mời, người được mời | Hai người chơi khác nhau |
+| Challenge | matchId | Trận được tạo khi lời mời được đồng ý; máy người mời dùng để mở đúng trận | 0 khi chưa đồng ý |
 | Match | status | Trạng thái trận | playing (đang đấu), finished (đã xong) |
 | Match | startedAt | Thời điểm server tạo trận và gửi đề | Mốc tính thời gian làm bài |
 | Match | endedAt | Thời điểm trận kết thúc | Chỉ có khi status = finished |
